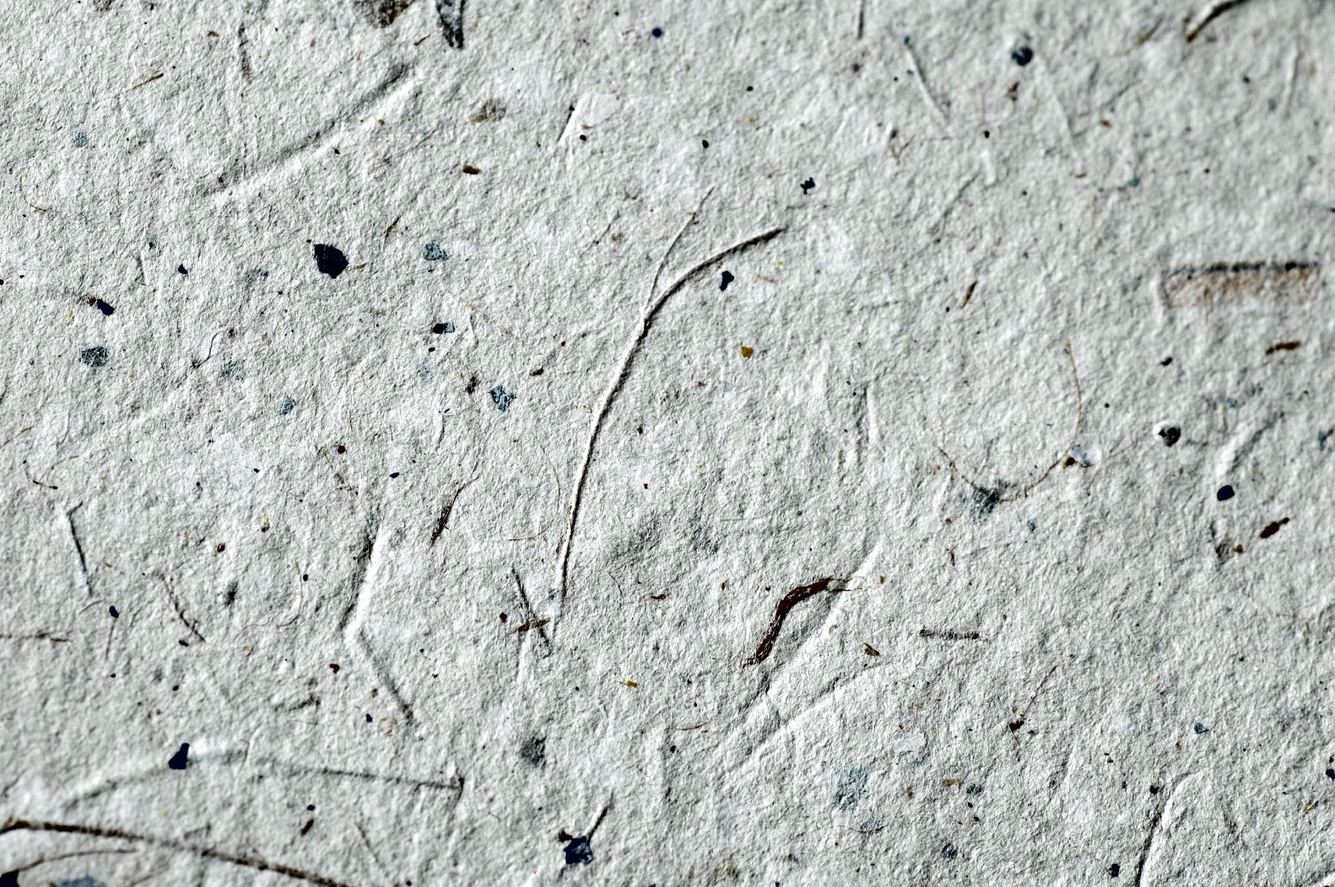
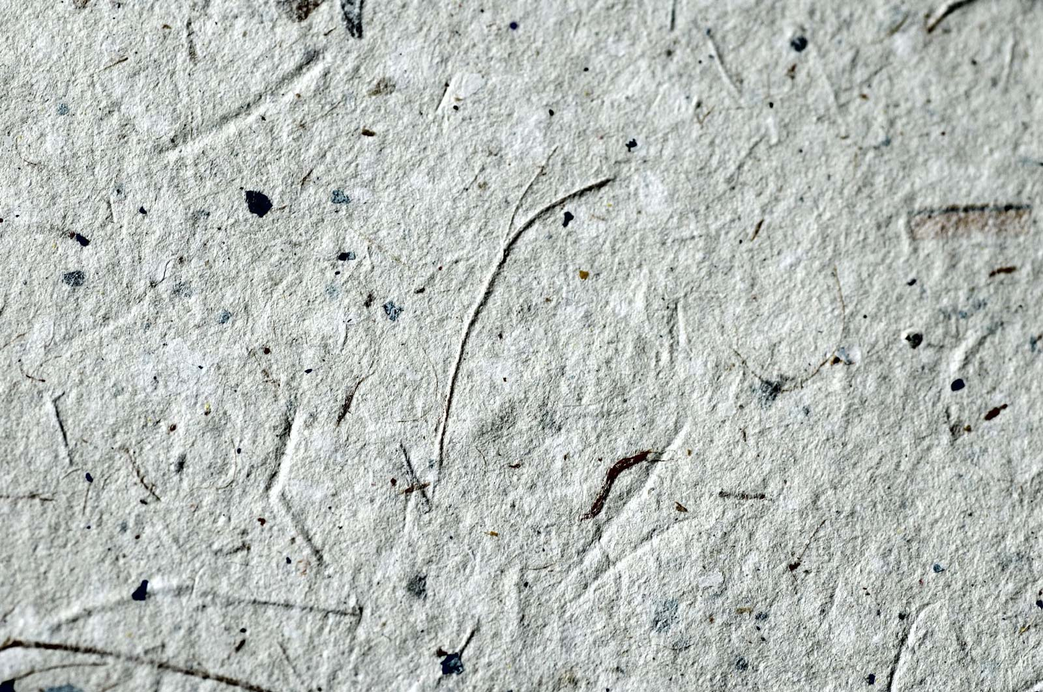
fixing repeat issue

diff --git a/css/style.css b/css/style.css
@@ -259,6 +259,8 @@ header
 #bg2 {
  opacity: 0.2;
  background-image: url('../images/retro_paper_2.jpg');
+ background-repeat: no-repeat;
+ background-position: 100% 100%;
  position:absolute;
  top:0px;
  bottom: 0px;
